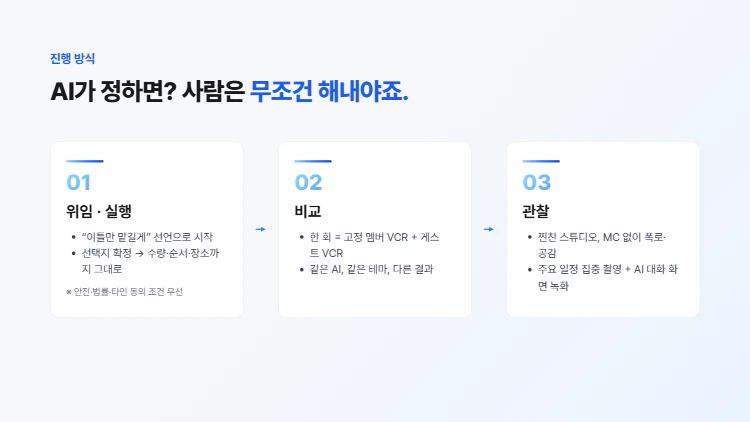
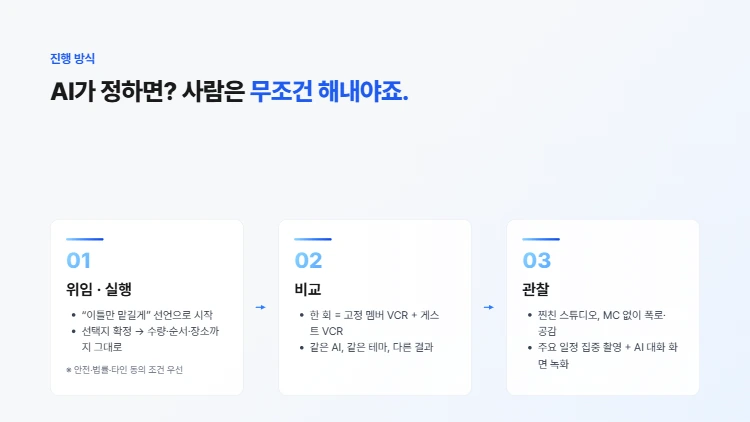
22페이지 수정

diff --git a/quests/ep01.html b/quests/ep01.html
@@ -525,7 +525,7 @@
     </div>
     <div class="sc-typing" aria-hidden="true"><i></i><i></i><i></i></div>
     <div class="sc-frame sc-wide" data-show="1 2" hidden>
-      <div class="ai-msg"><div class="ai-who"><span class="ai-av" aria-hidden="true">AI</span><b>AI</b></div><div class="ai-b md"><div class="sc-stack"><figure class="sc-shot"><span class="sc-shot-in"><img src="assets/ep01/demo/04-concept.webp" alt="기준 슬라이드 ① 개념형: 진행 방식. 제목 ‘AI가 정하면? 사람은 무조건 해내야죠.’ 아래 위임·실행, 비교, 관찰 카드 3개" width="750" height="422" loading="lazy"><span class="mk mk-bad" data-show="2" hidden style="left:4%;top:10%;width:56%;height:18%;--d:0.00s"><em><b>1</b>제목이 커요</em></span><span class="mk mk-bad" data-show="2" hidden style="left:4%;top:32%;width:92%;height:48%;--d:0.18s"><em><b>2</b>본문이 위로 쏠려요</em></span></span><figcaption>기준 ① 개념형</figcaption></figure><figure class="sc-shot"><span class="sc-shot-in"><img src="assets/ep01/demo/04-data.webp" alt="기준 슬라이드 ② 데이터 강조형: 프로그램 개요. 큰 숫자 48시간과 오른쪽 70분×4회, 4+1인, AI 1종 카드" width="750" height="422" loading="lazy"><span class="mk mk-bad" data-show="2" hidden style="left:4%;top:42%;width:34%;height:32%;--d:0.36s"><em><b>3</b>48시간이 밋밋해요</em></span><span class="mk mk-bad mk-r" data-show="2" hidden style="left:46%;top:40%;width:50%;height:46%;--d:0.54s"><em><b>4</b>아이콘이 없어요</em></span><span class="mk mk-bad mk-r mk-b" data-show="2" hidden style="left:86%;top:3%;width:12%;height:16%;--d:0.72s"><em><b>5</b>로고 자리</em></span><span class="mk mk-bad mk-r" data-show="2" hidden style="left:86%;top:82%;width:12%;height:15%;--d:0.90s"><em><b>6</b>쪽번호 자리</em></span></span><figcaption>기준 ② 데이터 강조형</figcaption></figure></div></div></div>
+      <div class="ai-msg"><div class="ai-who"><span class="ai-av" aria-hidden="true">AI</span><b>AI</b></div><div class="ai-b md"><div class="sc-stack"><figure class="sc-shot"><span class="sc-shot-in"><img src="assets/ep01/demo/04-concept.webp" alt="기준 슬라이드 ① 개념형: 진행 방식. 제목 ‘AI가 정하면? 사람은 무조건 해내야죠.’ 아래로 한참 떨어져 하단에 몰린 위임·실행, 비교, 관찰 카드 3개" width="750" height="422" loading="lazy"><span class="mk mk-bad" data-show="2" hidden style="left:4%;top:10%;width:56%;height:18%;--d:0.00s"><em><b>1</b>제목이 커요</em></span><span class="mk mk-bad" data-show="2" hidden style="left:4%;top:49%;width:92%;height:48%;--d:0.18s"><em><b>2</b>본문이 아래로 쏠려요</em></span></span><figcaption>기준 ① 개념형</figcaption></figure><figure class="sc-shot"><span class="sc-shot-in"><img src="assets/ep01/demo/04-data.webp" alt="기준 슬라이드 ② 데이터 강조형: 프로그램 개요. 큰 숫자 48시간과 오른쪽 70분×4회, 4+1인, AI 1종 카드" width="750" height="422" loading="lazy"><span class="mk mk-bad" data-show="2" hidden style="left:4%;top:42%;width:34%;height:32%;--d:0.36s"><em><b>3</b>48시간이 밋밋해요</em></span><span class="mk mk-bad mk-r" data-show="2" hidden style="left:46%;top:40%;width:50%;height:46%;--d:0.54s"><em><b>4</b>아이콘이 없어요</em></span><span class="mk mk-bad mk-r mk-b" data-show="2" hidden style="left:86%;top:3%;width:12%;height:16%;--d:0.72s"><em><b>5</b>로고 자리</em></span><span class="mk mk-bad mk-r" data-show="2" hidden style="left:86%;top:82%;width:12%;height:15%;--d:0.90s"><em><b>6</b>쪽번호 자리</em></span></span><figcaption>기준 ② 데이터 강조형</figcaption></figure></div></div></div>
     </div>
     <p class="sc-cap" aria-live="polite"><span data-show="0">2장만, 서로 다른 형태로. 보내기를 눌러 보세요.</span><span data-show="1" hidden>기준 슬라이드 2장이 나왔어요. 고칠 곳을 찾아볼까요?</span><span data-show="2" hidden>고칠 곳 여섯 군데. <b>지금 고쳐야 나머지 장에도 이어져요.</b></span></p>
     <div class="sc-ctl"><button type="button" class="btn btn-sm sc-next" data-sc-act="next" hidden></button><button type="button" class="vz-skip sc-reset" data-sc-act="reset" hidden>처음부터 다시</button></div>
